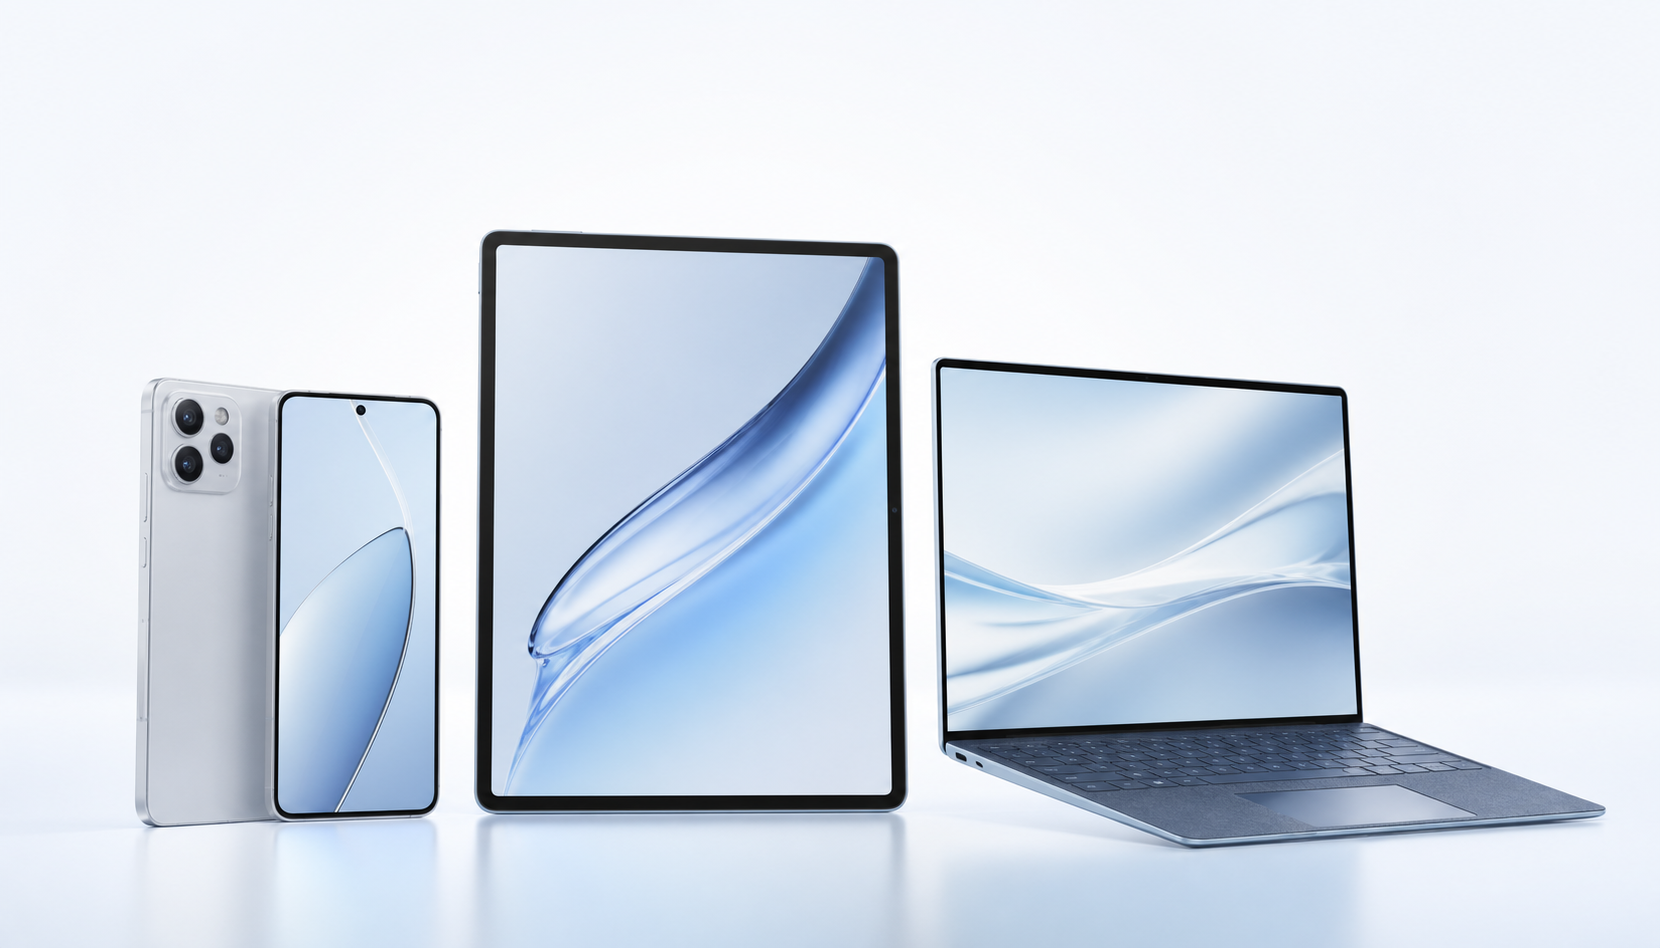
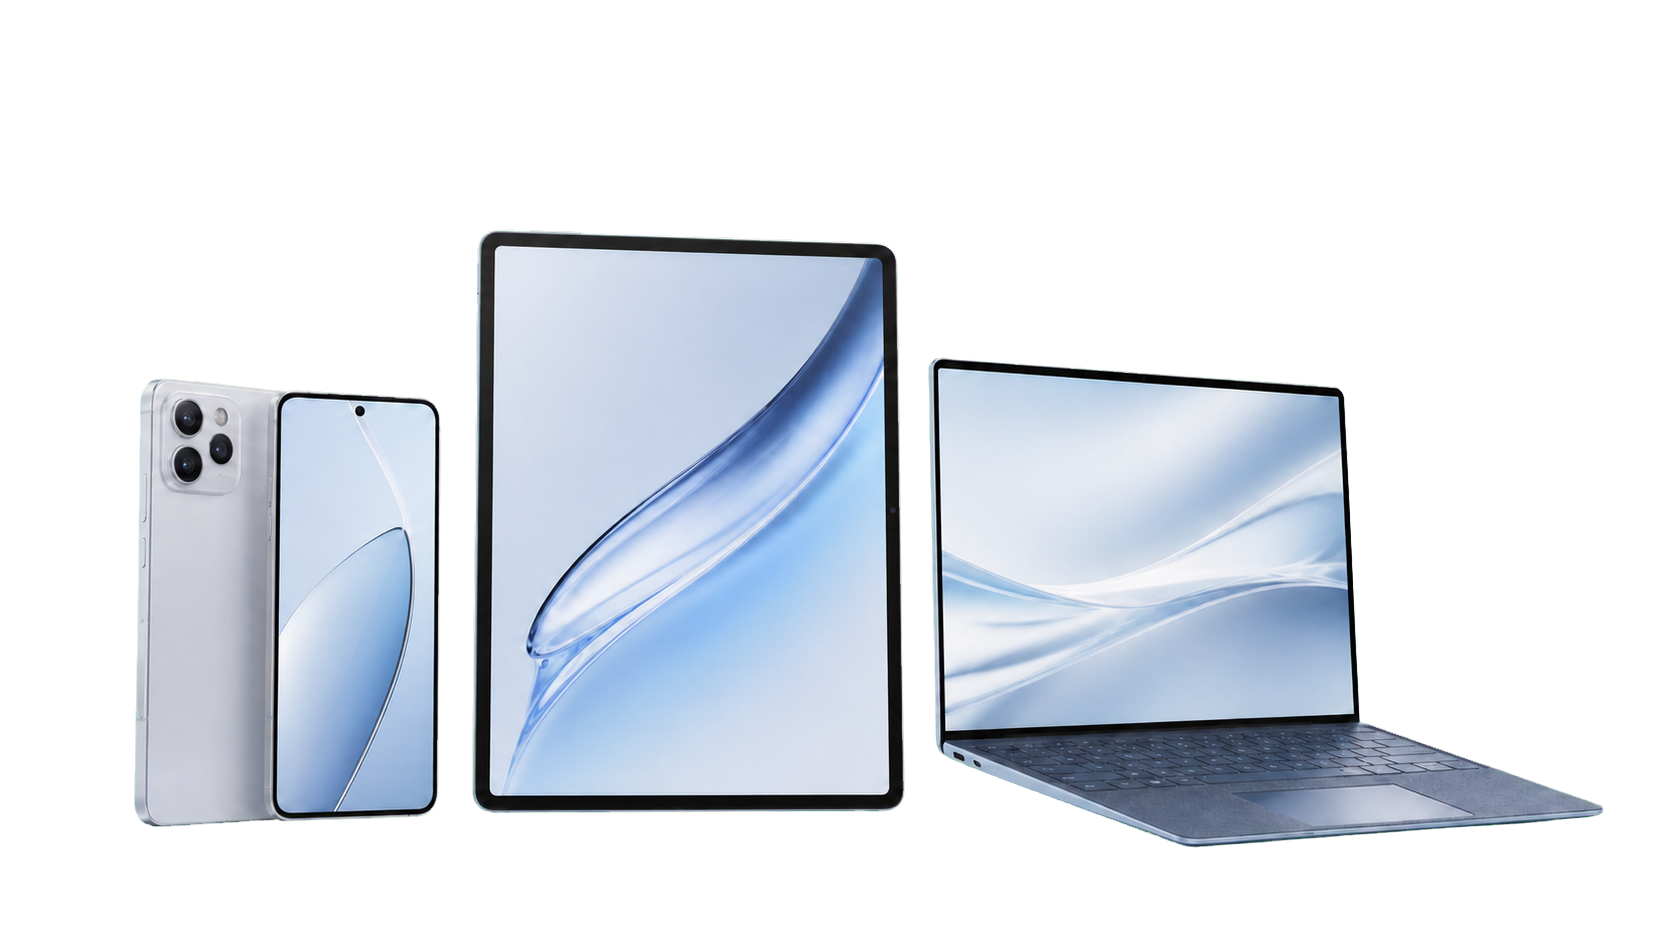
fix

diff --git a/styles.css b/styles.css
@@ -67,7 +67,7 @@ main { padding-top: var(--nav-height); }
 .text-link { color: var(--blue); font-size: 18px; }.text-link:hover { text-decoration: underline; }
 .text-link span { font-size: 25px; line-height: 0; vertical-align: -1px; }
 .hero-media { width: min(1060px, 96vw); margin-top: -8px; }
-.hero-media img { display: block; width: 100%; height: auto; mix-blend-mode: multiply; }
+.hero-media img { display: block; width: 100%; height: auto; }
 
 .product-panel { min-height: 740px; padding: 76px 20px 0; }
 .panel-copy { position: relative; z-index: 2; }
